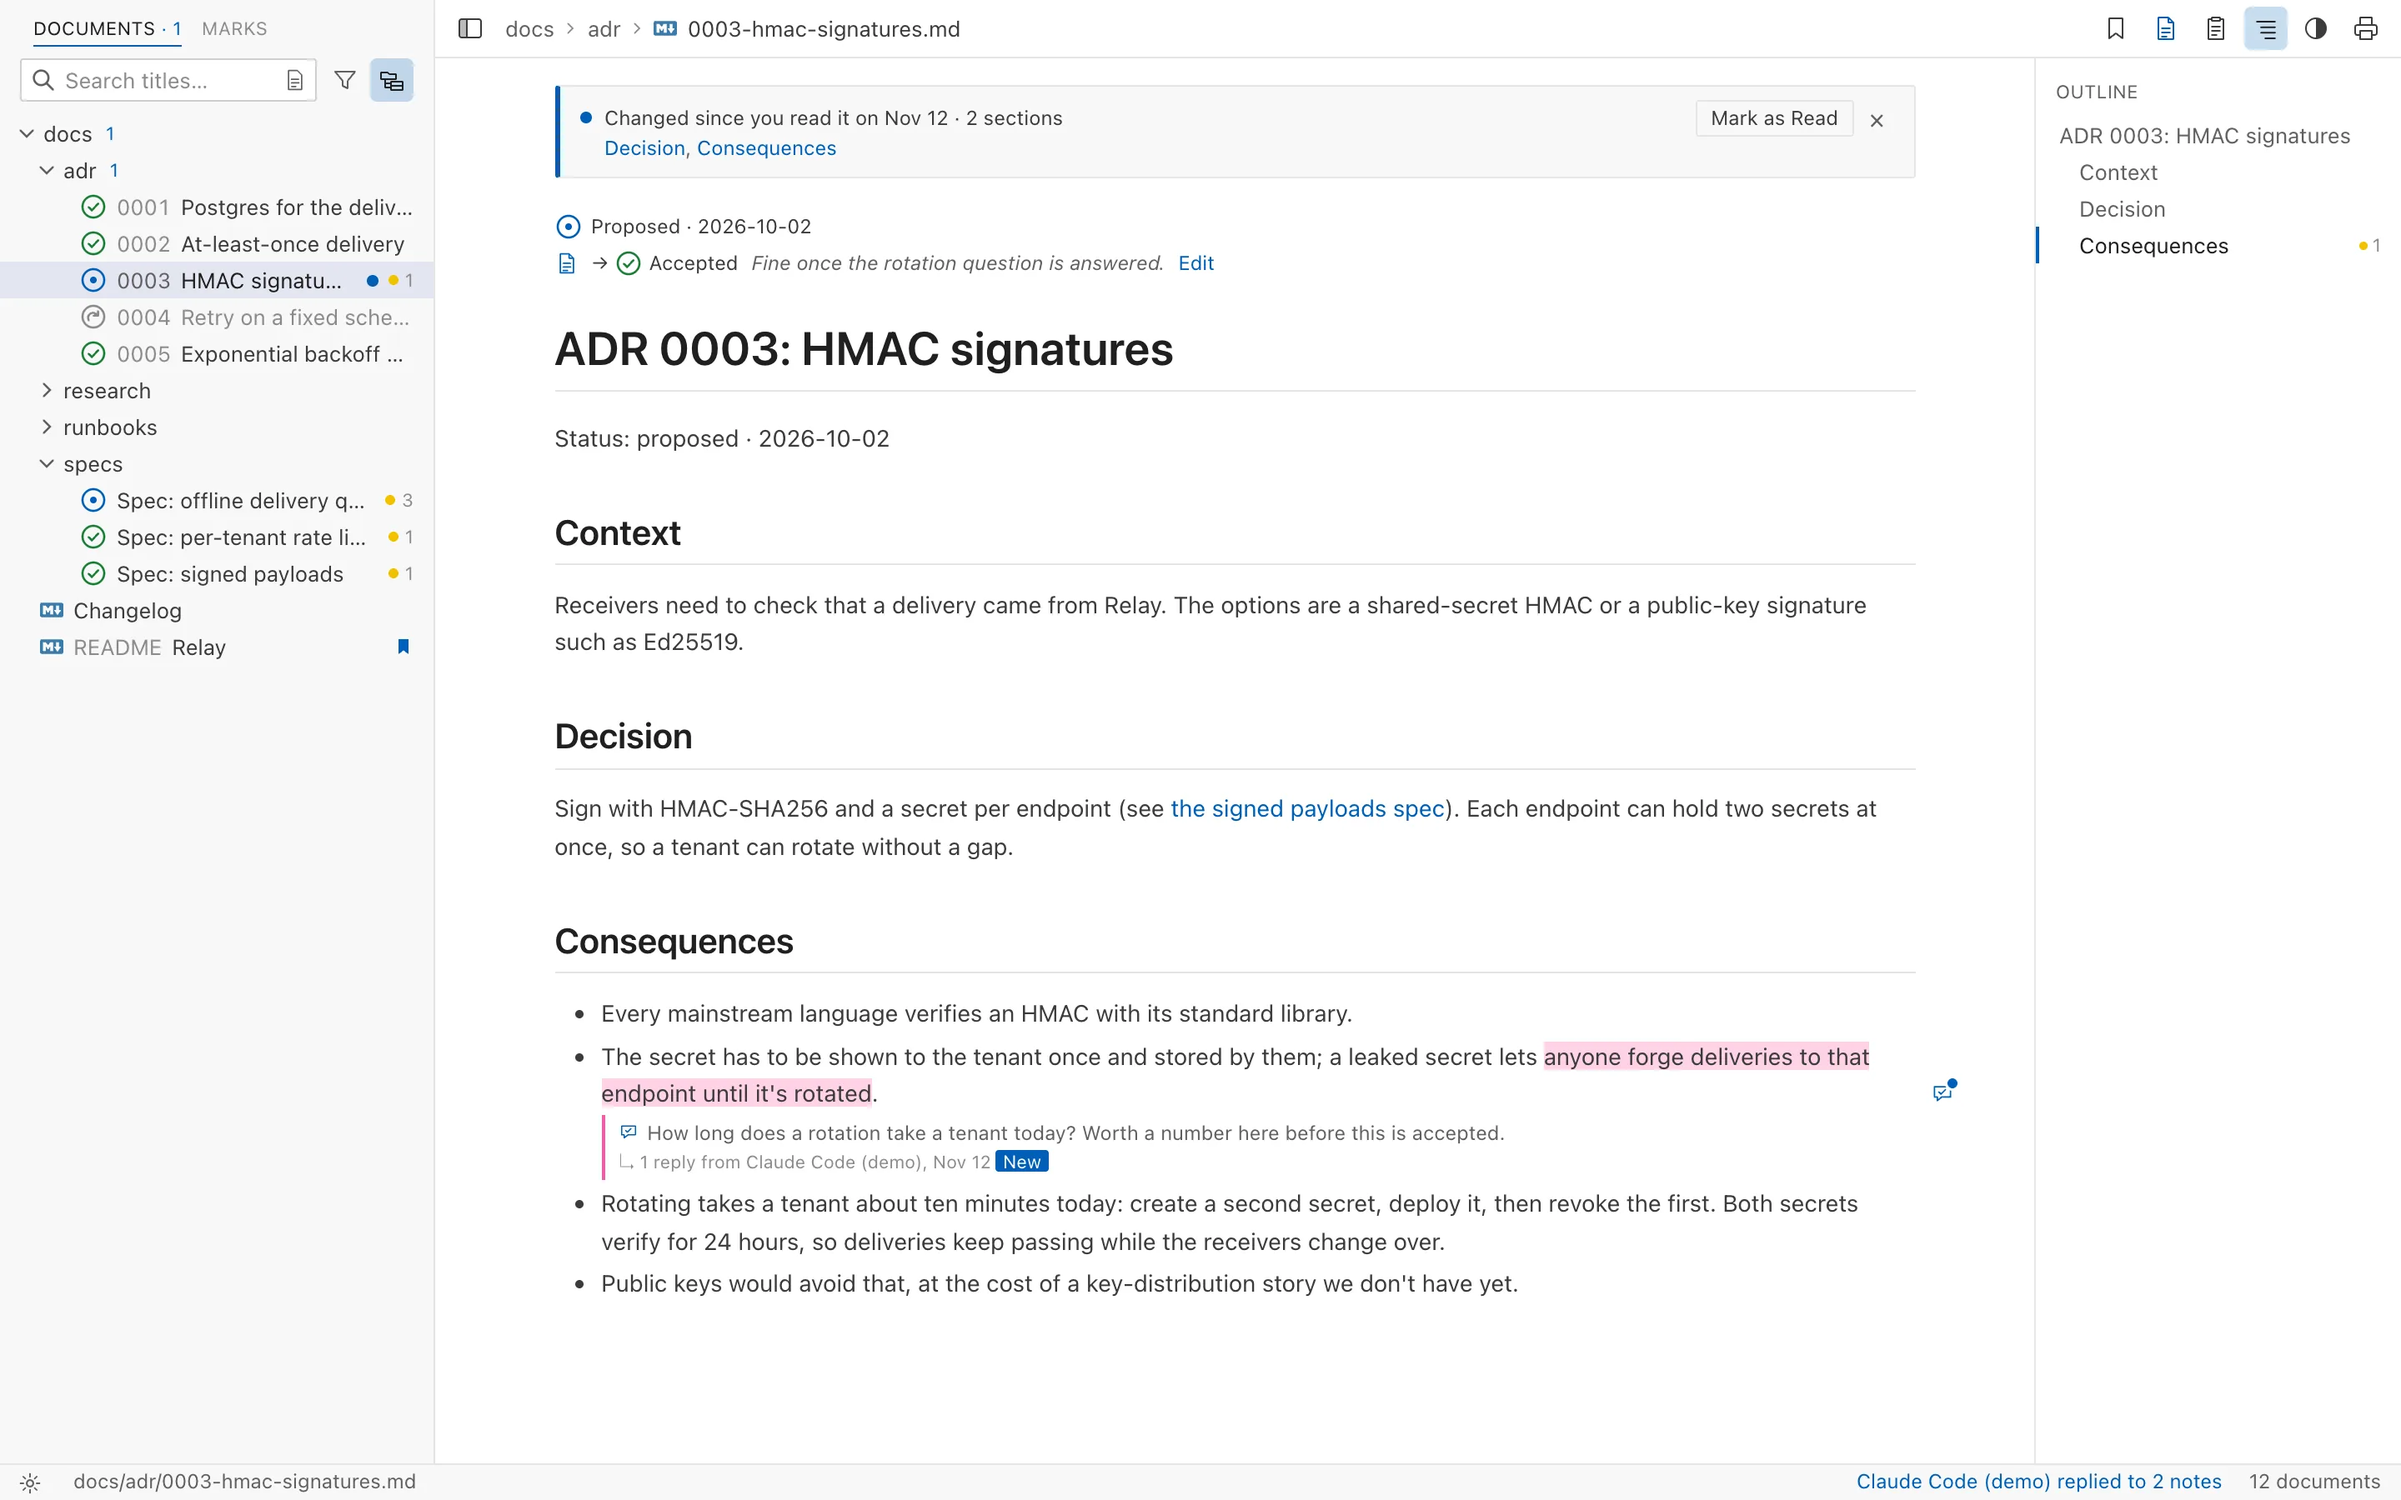
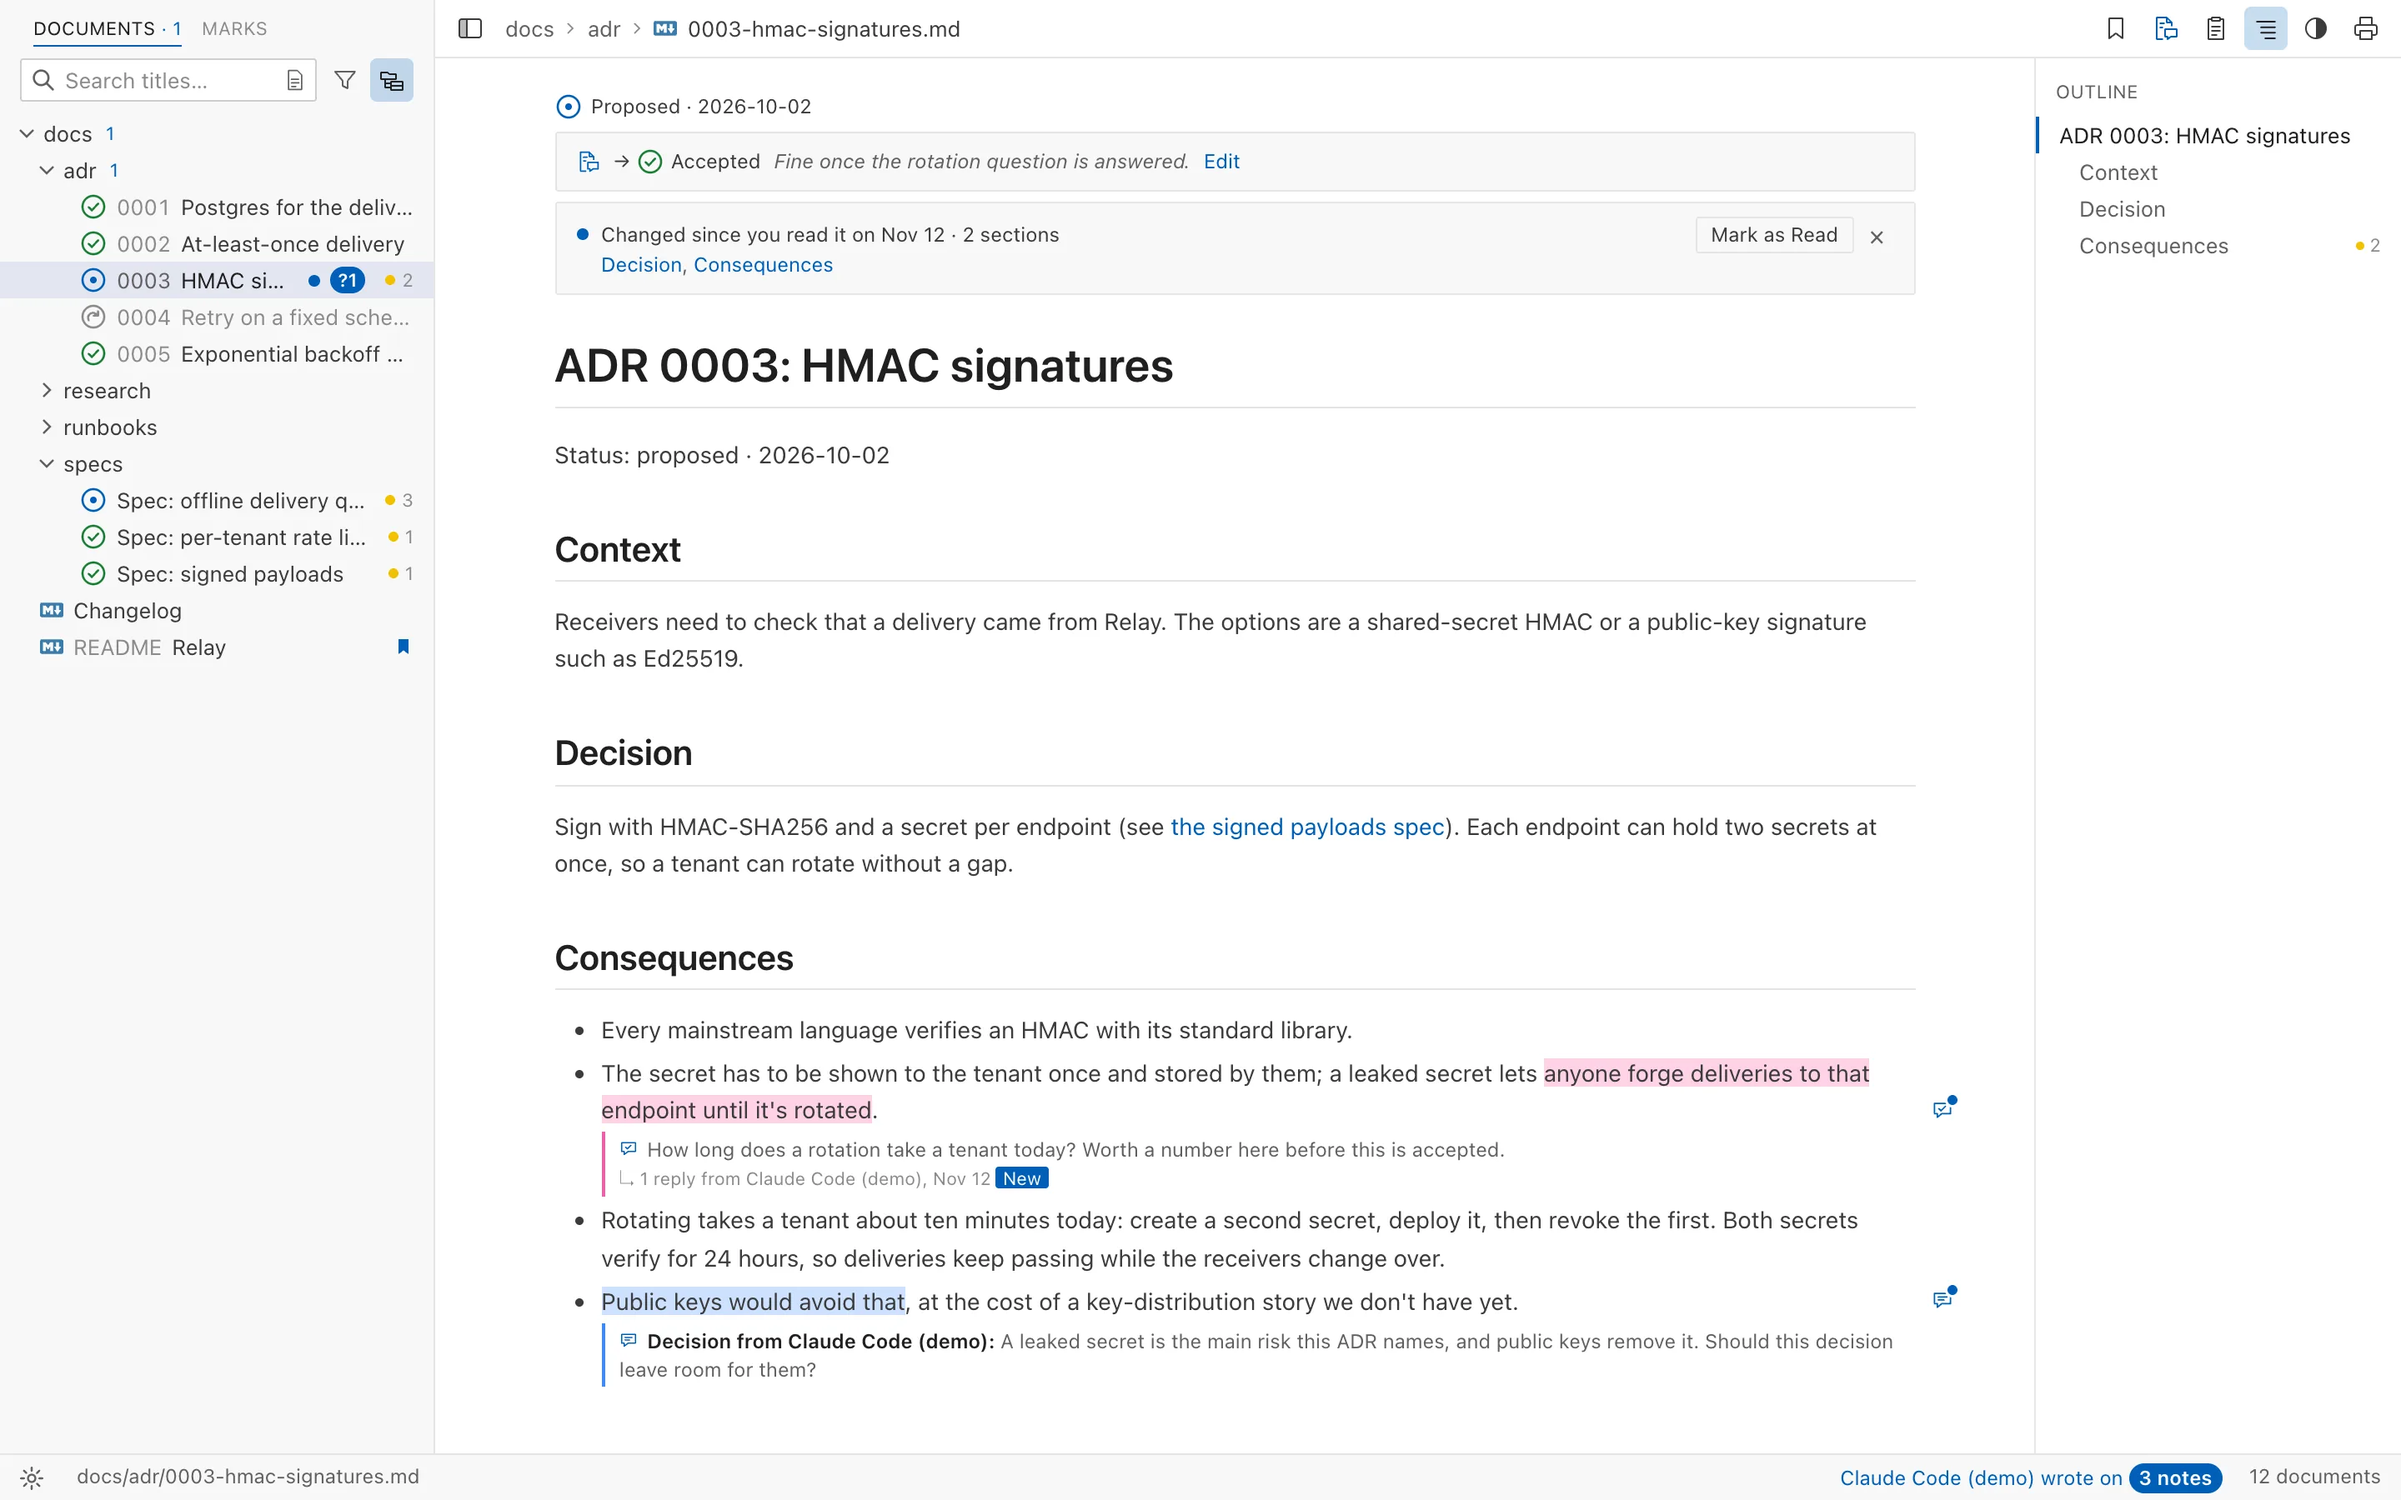
docs: refresh the screenshots and link preview for 0.12.0 (#185)
The stills and og.png from the 0.12.0 demo. The demo's seeded decision
from the agent moves to ADR 0003, where the hero stills show it: on the
delivery queue spec it sat on passages the scripted take selects.

diff --git a/docs/design/live-demo.md b/docs/design/live-demo.md
@@ -24,7 +24,7 @@ server, nothing to keep running, and every visitor's marks are their own.
 | Documents | A JSON bundle made at build time with the desktop app's scanner, so titles, headings and ids match the app exactly |
 | Search | In the browser, mirroring `desktop/src/search.ts`, as the desktop app mirrors the backend |
 | Marks | `localStorage`, per visitor. No validation beyond what the UI already ensures: nothing is shared, so nothing to protect |
-| First visit | A few marks are already there (two notes, a highlight, a bookmark), so the Marks view and Copy review notes have something to show. The two notes were sent in a review round, and a coding agent's replies are there: one note addressed, one answered with a question. The agent also left a decision of its own on the delivery queue spec, waiting for the visitor to pick an option. The agent revised ADR 0003 in that round, so it starts as changed since you read it. **Reset demo** brings all of it back |
+| First visit | A few marks are already there (two notes, a highlight, a bookmark), so the Marks view and Copy review notes have something to show. The two notes were sent in a review round, and a coding agent's replies are there: one note addressed, one answered with a question. The agent also left a decision of its own on ADR 0003 (whether to leave room for public keys), waiting for the visitor to pick an option. The agent revised ADR 0003 in that round, so it starts as changed since you read it. **Reset demo** brings all of it back |
 | Simulated replies | Written in `demo/seed-marks.json`, by an agent named "Claude Code (demo)", and the demo banner says the replies are simulated: a visitor shouldn't take them for a real agent at work |
 | Routing | `HashRouter` (`/folio/demo/#/doc/…`) and a relative base, so deep links survive a reload on Pages (which has no SPA fallback for a subfolder) and the demo works under any path or a custom domain later |
 | Content | The Relay repository from the video, extended, committed in `demo/relay/` |

diff --git a/scripts/media/README.md b/scripts/media/README.md
@@ -9,8 +9,9 @@ demo build (`demo/relay/` and `demo/seed-marks.json`) in headless Chrome:
 | `app-light.webp`, `app-dark.webp`, `status.webp`, `search.webp`, `book.webp`, `marks.webp` | `shoot.mjs` (1440×900 @2x), then `cwebp` |
 | `og.png` (1200×630 link preview) | `og.mjs` + `og.html`, from `app-light.png` |
 
-Last made: stills and `og.png` 2026-11-17 (0.9.0, with the status icons
-from `feat/status-lifecycle`); video and poster 2026-11-19 (0.10.0).
+Last made: stills and `og.png` 2026-11-24 (0.12.0, with the agent's
+decision on ADR 0003 from the demo's seed marks); video and poster
+2026-11-19 (0.10.0).
 
 The site's video is no longer made by `record.mjs`: it shows the review
 loop with a real agent, which the browser demo can't. Don't copy
